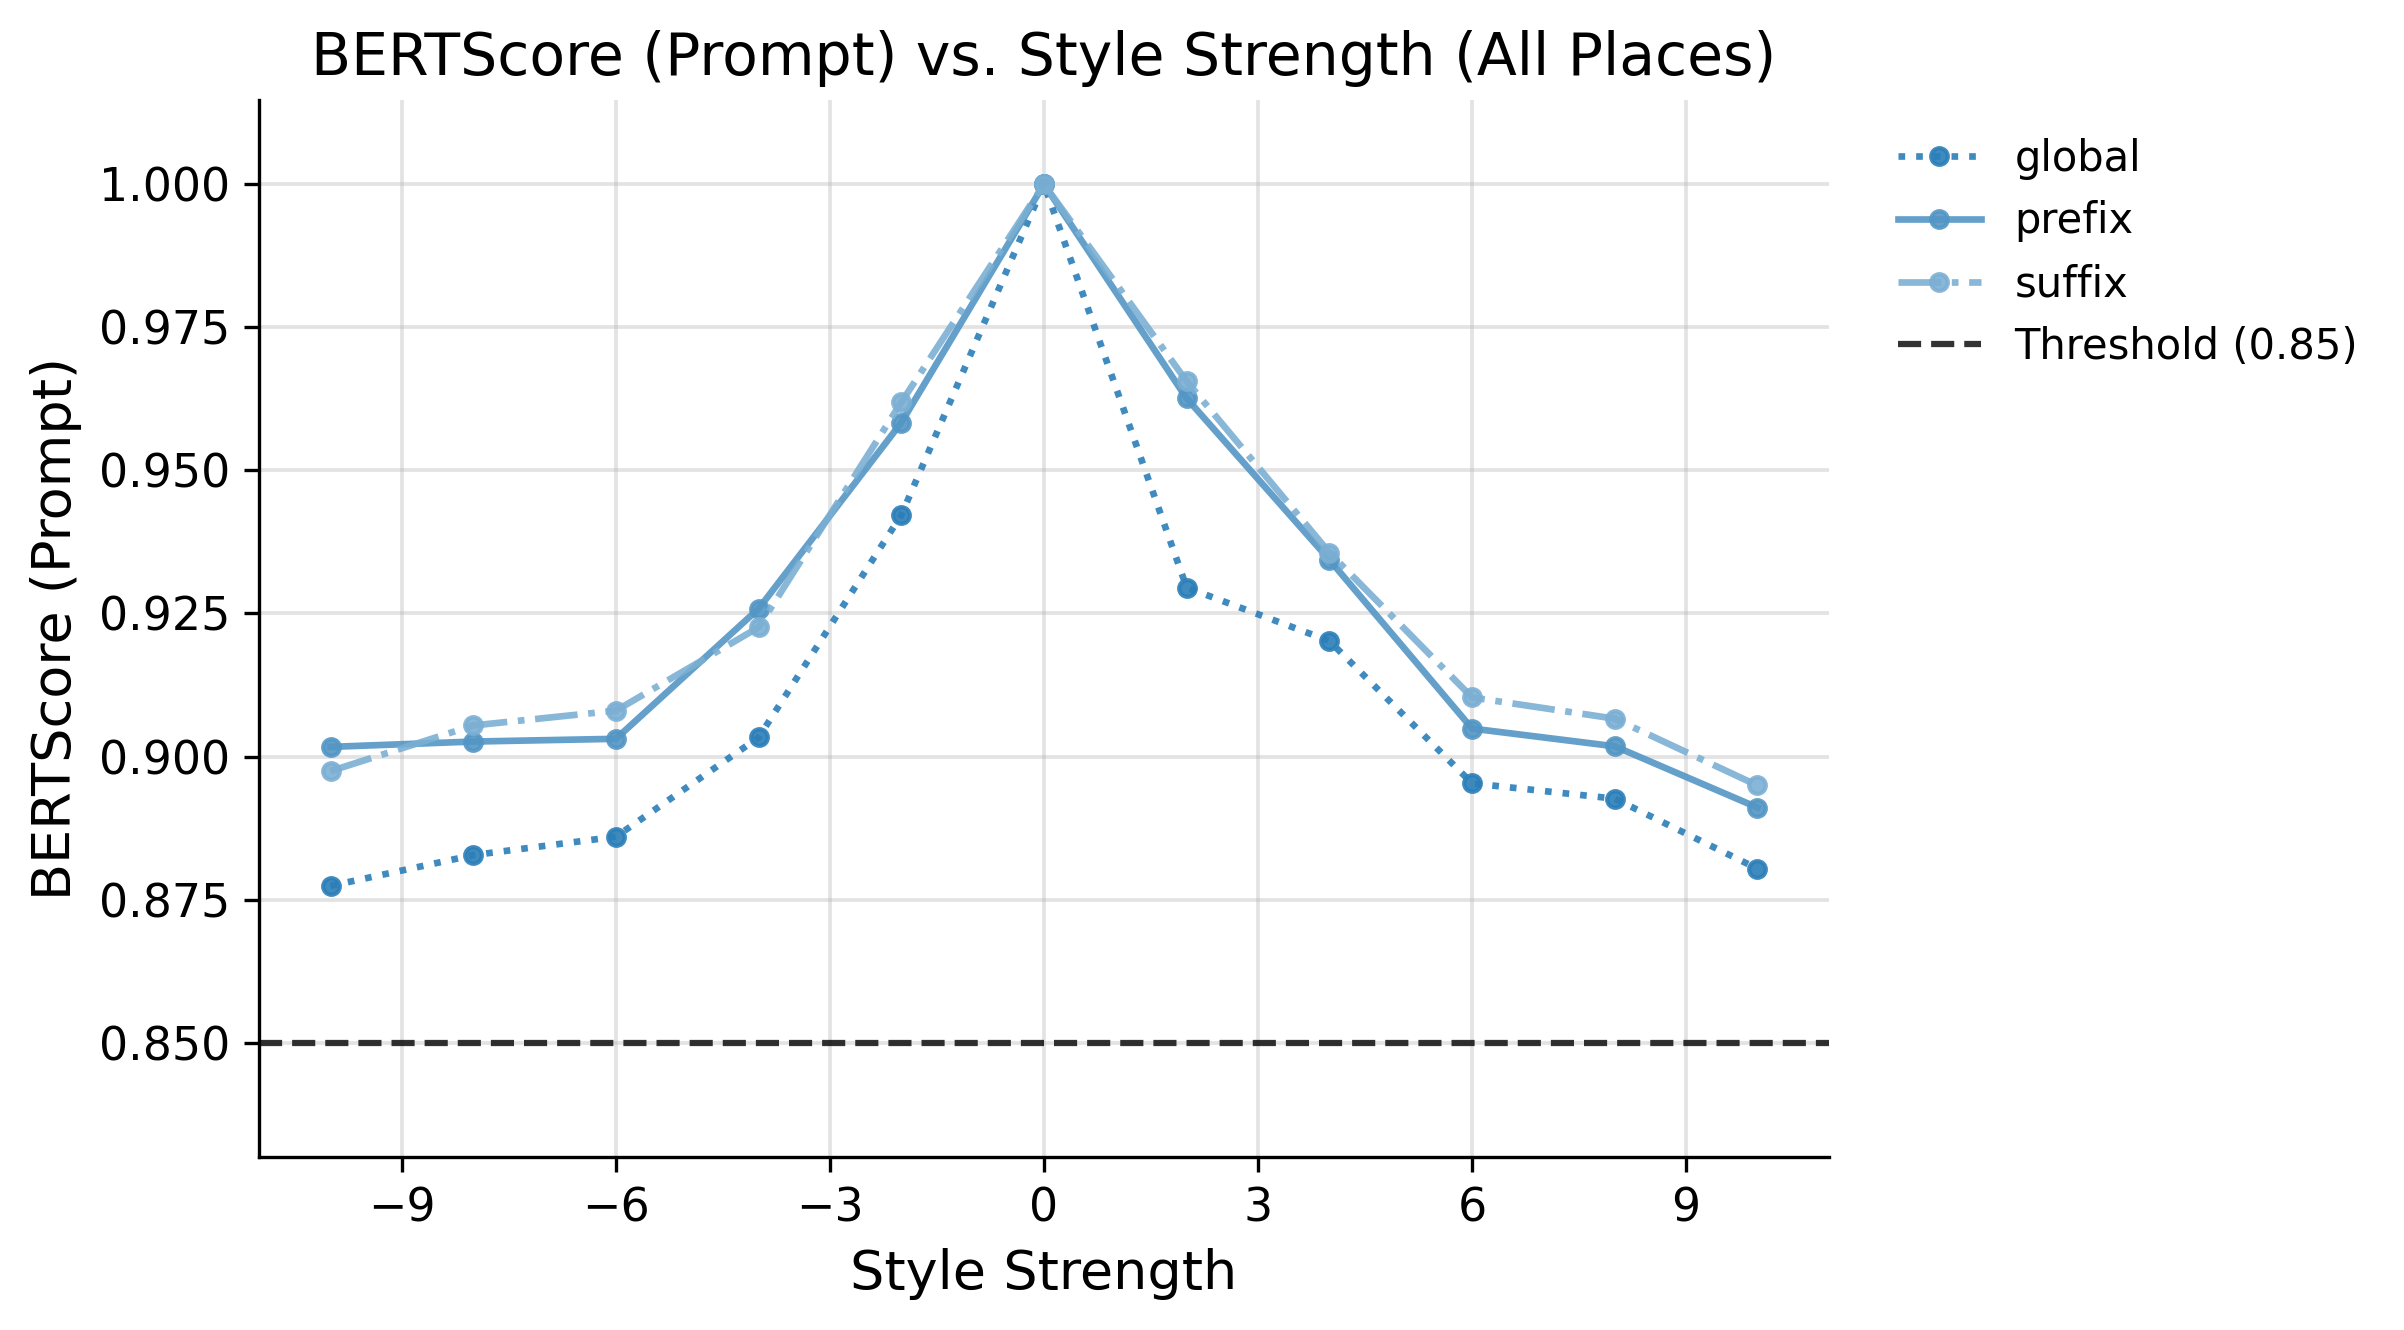
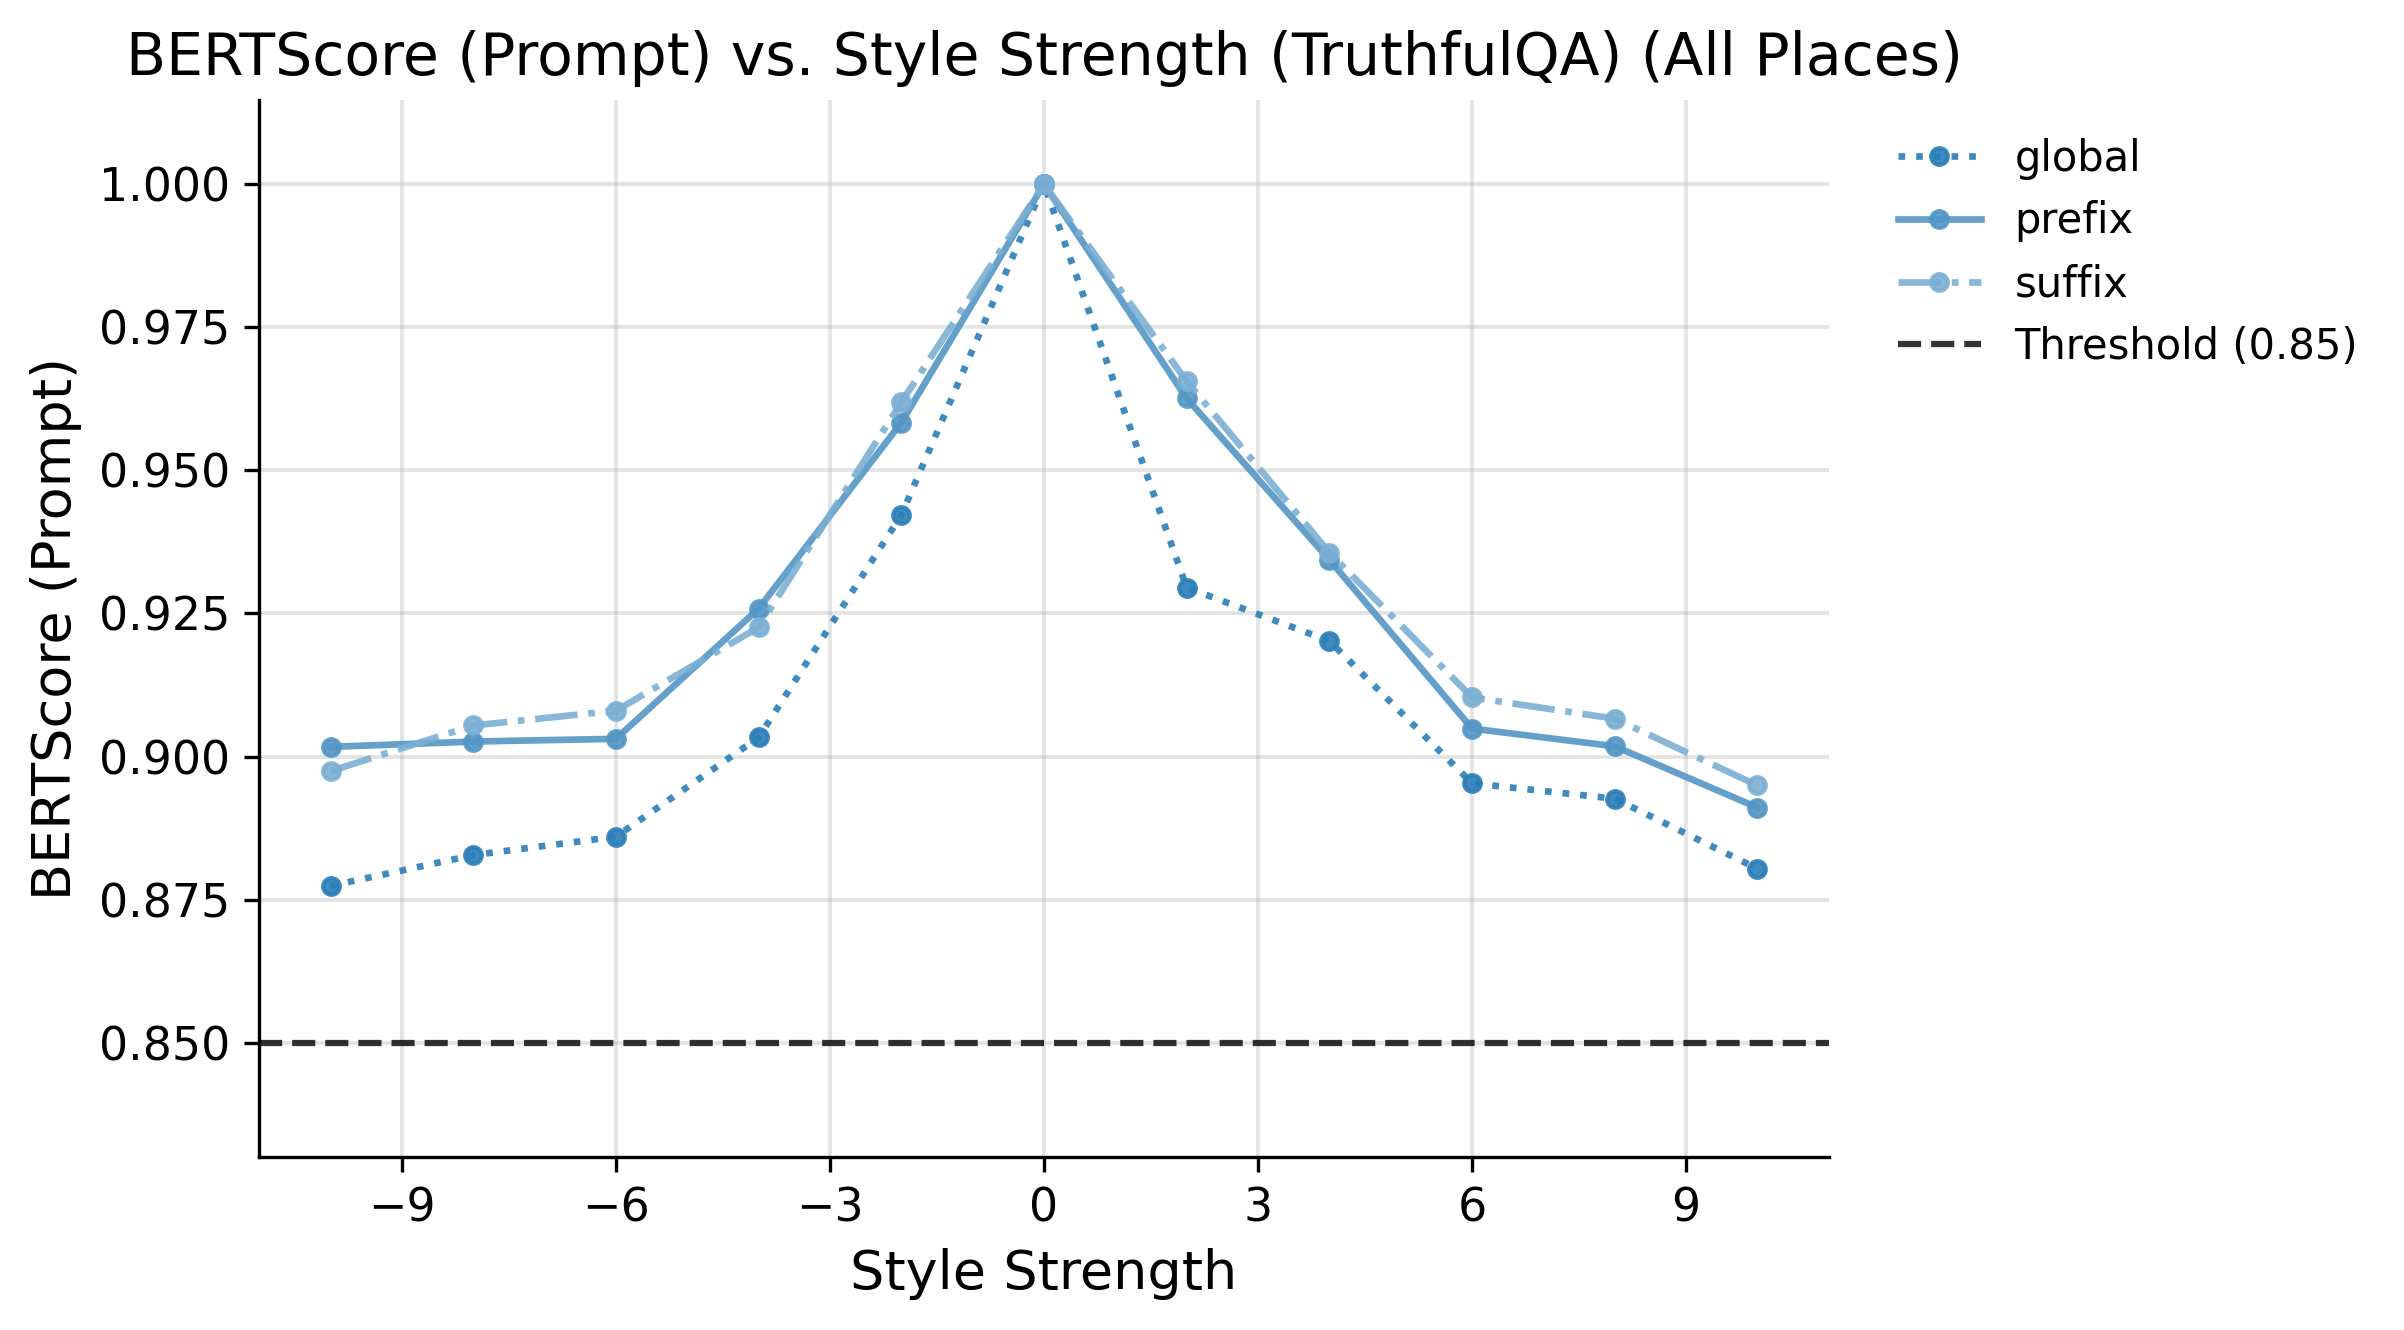
refactor plotting utilities to include dataset names in titles and axis labels; add new metrics for analysis

Changed region(s): [[0.0312, 0.0, 0.8111, 0.0617]]

diff --git a/experiments/plots.py b/experiments/plots.py
@@ -9,7 +9,7 @@ What this script does
      <RUN_DIR>/plots_metrics/combined_means_by_model_place_strength.csv
 
 2) For EACH metric column (restricted to a selected set):
-   - Line plot: x=strength (interpreted as), y=metric,
+   - Line plot: x=strength (Style Strength), y=metric,
      one color per model, shades per place.
    - Radar plot Type A: axes=places, lines=models (colors=models).
    - Radar plot Type B: axes=models, lines=places (colors=places).
@@ -19,7 +19,7 @@ What this script does
 Notes
 -----
 - This file intentionally keeps your plotting logic the same, except:
-  * Titles and axis labels are fixed as requested.
+  * Titles and axis labels are fixed as requested (now include dataset name).
   * Metric display names are mapped (y-axis + titles).
   * Only a specific metric subset is plotted (plus optional bertscore_prompt special case).
   * bertscore_prompt is plotted for only ONE model across 3 places, and title omits model.
@@ -47,6 +47,9 @@ ALLOWED_METRICS = [
     "entropy_shift",
     "activation_similarity",
     "mirroring_rate",
+    # NEW:
+    "asr_harmbench",
+    "silhouette_score_harmbench_alpaca",
 ]
 
 # Optional special-case metric (not for all models)
@@ -60,11 +63,85 @@ METRIC_DISPLAY = {
     "activation_similarity": "Activation Similarity",
     "mirroring_rate": "Mirroring Rate",
     "bertscore_prompt": "BERTScore (Prompt)",
+    # NEW:
+    "asr_harmbench": "ASR (HarmBench)",
+    "silhouette_score_harmbench_alpaca": "Silhouette Score (HarmBench + Alpaca)",
 }
 
 
 def metric_display_name(metric: str) -> str:
     return METRIC_DISPLAY.get(metric, metric)
+
+
+# ============================================================
+# Dataset name (TruthfulQA / Natural Questions) for titles
+# ============================================================
+
+_DATASET_CANON = {
+    "truthfulqa": "TruthfulQA",
+    "truthful_qa": "TruthfulQA",
+    "natural_questions": "Natural Questions",
+    "naturalquestions": "Natural Questions",
+    "nq": "Natural Questions",
+}
+
+
+def _canon_dataset_name(raw: str) -> Optional[str]:
+    if raw is None:
+        return None
+    s = str(raw).strip().lower()
+    if not s:
+        return None
+    if s in _DATASET_CANON:
+        return _DATASET_CANON[s]
+    # substring match
+    for k, v in _DATASET_CANON.items():
+        if k in s:
+            return v
+    return None
+
+
+def dataset_title_suffix(d: pd.DataFrame) -> str:
+    """
+    Returns a title suffix like:
+      " (TruthfulQA)" or " (Natural Questions)" or " (TruthfulQA + Natural Questions)"
+    If dataset cannot be inferred, returns "".
+    """
+    names: List[str] = []
+
+    # Preferred: explicit dataset column if present
+    for col in ["dataset", "benchmark", "task"]:
+        if col in d.columns:
+            vals = [x for x in d[col].dropna().unique().tolist()]
+            for v in vals:
+                cn = _canon_dataset_name(v)
+                if cn and cn not in names:
+                    names.append(cn)
+
+    # Fallback: infer from run_dir names
+    if not names and "run_dir" in d.columns:
+        vals = [x for x in d["run_dir"].dropna().unique().tolist()]
+        for v in vals:
+            cn = _canon_dataset_name(v)
+            if cn and cn not in names:
+                names.append(cn)
+
+    if not names:
+        return ""
+
+    # keep stable ordering TruthfulQA then NQ if both exist
+    ordered = []
+    for v in ["TruthfulQA", "Natural Questions"]:
+        if v in names:
+            ordered.append(v)
+    # add any extras deterministically (unlikely)
+    for v in sorted(set(names)):
+        if v not in ordered:
+            ordered.append(v)
+
+    if len(ordered) == 1:
+        return f" ({ordered[0]})"
+    return " (" + " + ".join(ordered) + ")"
 
 
 # ============================================================
@@ -216,6 +293,7 @@ PLACE_LINESTYLE = {
 # ============================================================
 # Line plot: metric vs "Style Strength" (strength)
 # ============================================================
+
 def plot_metric_lines(
         df: pd.DataFrame,
         metric: str,
@@ -241,6 +319,8 @@ def plot_metric_lines(
     if d.empty:
         return
 
+    ds_suffix = dataset_title_suffix(d)
+
     models_u = sorted(d["model"].unique().tolist())
     places_u = sorted(d["place"].unique().tolist())
 
@@ -262,7 +342,6 @@ def plot_metric_lines(
             if sub.empty:
                 continue
 
-            # Special case: labels omit model for bertscore_prompt
             series_label = f"{place}" if single_model_mode else f"{model} · {place}"
 
             ax.plot(
@@ -277,15 +356,14 @@ def plot_metric_lines(
                 label=series_label,
             )
 
-    # Axis labels + title fixes
     ax.set_xlabel("Style Strength")
     ax.set_ylabel(metric_display_name(metric))
     ax.xaxis.set_major_locator(plt.MaxNLocator(integer=True))
 
     if single_model_mode:
-        ax.set_title(f"{metric_display_name(metric)} vs. Style Strength (All Places)")
+        ax.set_title(f"{metric_display_name(metric)} vs. Style Strength{ds_suffix} (All Places)")
     else:
-        ax.set_title(f"{metric_display_name(metric)} vs. Style Strength (All Models and Places)")
+        ax.set_title(f"{metric_display_name(metric)} vs. Style Strength{ds_suffix} (All Models and Places)")
 
     # ---- Dynamic y padding (prevents stiff look) ----
     ymin = float(d[metric].min())
@@ -327,6 +405,7 @@ def plot_metric_lines(
     if save_pdf:
         plt.savefig(os.path.splitext(out_path)[0] + ".pdf", bbox_inches="tight")
     plt.close()
+
 
 # ============================================================
 # Radar helpers
@@ -398,6 +477,10 @@ def _set_rgrid(ax, data_max: float):
 # ============================================================
 # Radar Type A: axes=places, colors=models
 # ============================================================
+# ============================================================
+# Radar Type A: axes=places, colors=models
+# (FIXED: titles now match the line-plot pattern + include dataset name)
+# ============================================================
 
 def plot_radar_places_axes(df: pd.DataFrame, metric: str, out_path: str,
                            models: Optional[List[str]] = None,
@@ -414,11 +497,14 @@ def plot_radar_places_axes(df: pd.DataFrame, metric: str, out_path: str,
     if agg.empty:
         return
 
+    ds_suffix = dataset_title_suffix(agg)
+
     models_u = sorted(agg["model"].unique().tolist())
     places_u = sorted(agg["place"].unique().tolist())
 
     # Special case: bertscore_prompt -> show ONLY ONE model
-    if metric == SPECIAL_SINGLE_MODEL_METRIC and len(models_u) > 0:
+    single_model_mode = (metric == SPECIAL_SINGLE_MODEL_METRIC and len(models_u) > 0)
+    if single_model_mode:
         keep_model = models_u[0]
         agg = agg[agg["model"] == keep_model].copy()
         models_u = [keep_model]
@@ -428,11 +514,11 @@ def plot_radar_places_axes(df: pd.DataFrame, metric: str, out_path: str,
 
     fig, ax = plt.subplots(figsize=(6.2, 6.2), subplot_kw=dict(polar=True))
 
-    if metric == SPECIAL_SINGLE_MODEL_METRIC:
-        title = f"{metric_display_name(metric)} by Place (Averaged over Style Strength)"
+    # Title style aligned with your rule
+    if single_model_mode:
+        title = f"{metric_display_name(metric)} vs. Place{ds_suffix} (All Places)"
     else:
-        title = f"{metric_display_name(metric)} by Place and Model (Averaged over Style Strength)"
-
+        title = f"{metric_display_name(metric)} vs. Place{ds_suffix} (All Models and Places)"
     angles = _radar_setup(ax, places_u, title=title)
 
     model_colors = build_model_color_map(models_u)
@@ -462,6 +548,7 @@ def plot_radar_places_axes(df: pd.DataFrame, metric: str, out_path: str,
 
 # ============================================================
 # Radar Type B: axes=models, colors=places
+# (FIXED: titles now match the line-plot pattern + include dataset name)
 # ============================================================
 
 def plot_radar_models_axes(df: pd.DataFrame, metric: str, out_path: str,
@@ -479,20 +566,22 @@ def plot_radar_models_axes(df: pd.DataFrame, metric: str, out_path: str,
     if agg.empty:
         return
 
+    ds_suffix = dataset_title_suffix(agg)
+
     models_u = sorted(agg["model"].unique().tolist())
     places_u = sorted(agg["place"].unique().tolist())
 
-    # Special case: bertscore_prompt -> show ONLY ONE model, but this plot is axes=models.
-    # With one model, the radar becomes degenerate; we keep behavior safe by returning.
-    if metric == SPECIAL_SINGLE_MODEL_METRIC:
-        if len(models_u) <= 1:
-            return
+    # Special case: bertscore_prompt -> this plot can be degenerate if 1 model; skip safely
+    if metric == SPECIAL_SINGLE_MODEL_METRIC and len(models_u) <= 1:
+        return
 
     tab = agg.pivot(index="place", columns="model", values=metric).reindex(index=places_u, columns=models_u)
     tab = _normalize_table(tab, cols=models_u, mode=radar_norm)
 
     fig, ax = plt.subplots(figsize=(6.6, 6.6), subplot_kw=dict(polar=True))
-    title = f"{metric_display_name(metric)} by Model and Place (Averaged over Style Strength)"
+
+    # Title style aligned with your rule
+    title = f"{metric_display_name(metric)} vs. Model{ds_suffix} (All Models and Places)"
     angles = _radar_setup(ax, models_u, title=title)
 
     place_colors = build_place_color_map(places_u)
@@ -522,6 +611,7 @@ def plot_radar_models_axes(df: pd.DataFrame, metric: str, out_path: str,
 
 # ============================================================
 # Radar Type C: axes=metrics, color=model, linestyle=place
+# (FIXED: title includes dataset name)
 # ============================================================
 
 def plot_radar_metrics_axes(df: pd.DataFrame, metrics: List[str], out_path: str,
@@ -538,6 +628,8 @@ def plot_radar_metrics_axes(df: pd.DataFrame, metrics: List[str], out_path: str,
         d = d[d["place"].isin(places)]
     if d.empty:
         return
+
+    ds_suffix = dataset_title_suffix(d)
 
     keep_metrics = [m for m in metrics if m in d.columns and m in ALLOWED_METRICS]
     if not keep_metrics:
@@ -568,7 +660,7 @@ def plot_radar_metrics_axes(df: pd.DataFrame, metrics: List[str], out_path: str,
     metric_labels = [metric_display_name(m) for m in metrics_u]
 
     fig, ax = plt.subplots(figsize=(7.0, 7.0), subplot_kw=dict(polar=True))
-    title = "Metric Profile by Model and Place (Normalized, Averaged over Style Strength)"
+    title = f"Metric Profile by Model and Place{ds_suffix} (Normalized, Avg. over Style Strength)"
     angles = _radar_setup(ax, metric_labels, title=title)
 
     model_colors = build_model_color_map(models_u)
@@ -601,7 +693,6 @@ def plot_radar_metrics_axes(df: pd.DataFrame, metrics: List[str], out_path: str,
     if save_pdf:
         plt.savefig(os.path.splitext(out_path)[0] + ".pdf", bbox_inches="tight")
     plt.close()
-
 
 # ============================================================
 # Main
@@ -675,9 +766,10 @@ def main():
 
     # --- Radar Type C: one radar over metrics (only the allowed metrics) ---
     metrics_for_type_c = [
-    m for m in metrics
-    if m in ALLOWED_METRICS and m not in ["bleu", "delta_log_prob"]
-]
+        m for m in metrics
+        if m in ALLOWED_METRICS and m not in ["bleu", "delta_log_prob"]
+    ]
+
     plot_radar_metrics_axes(
         df,
         metrics=metrics_for_type_c,
